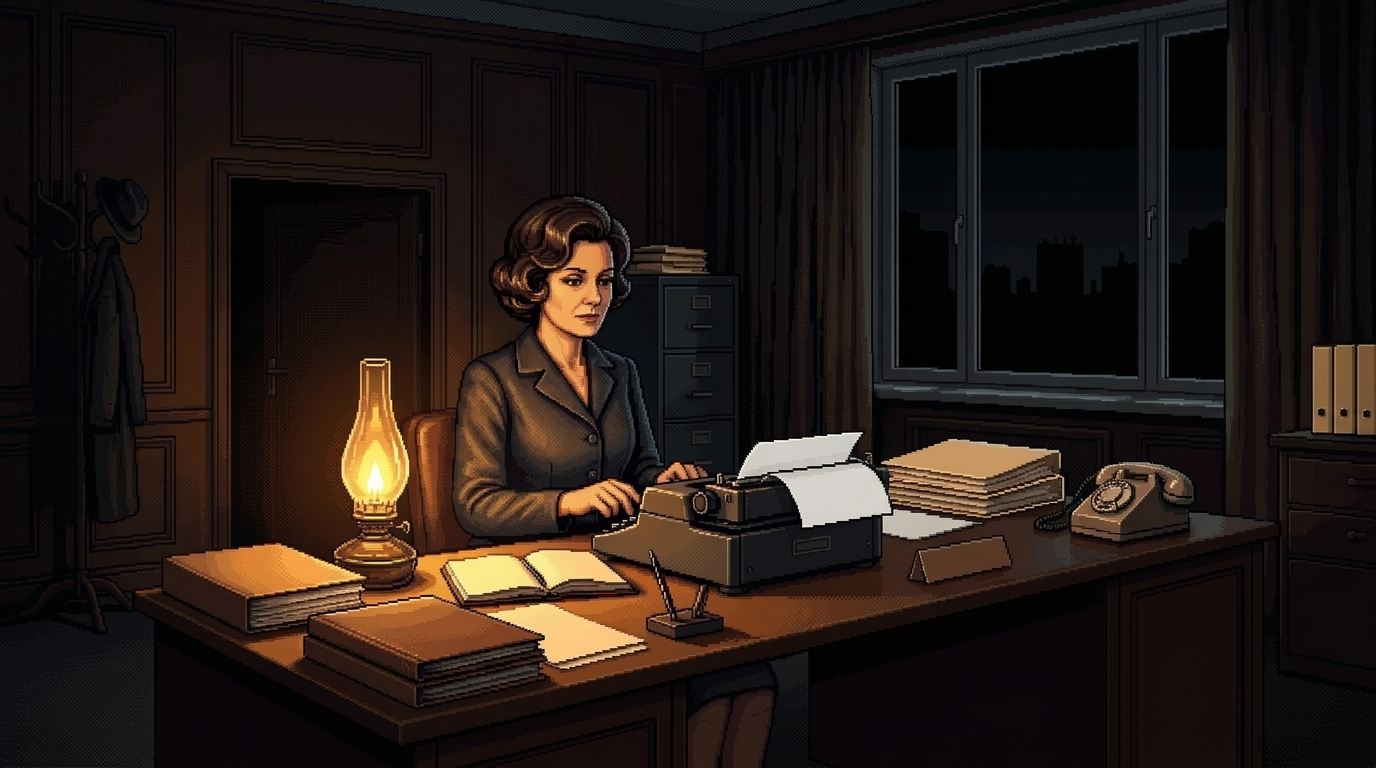
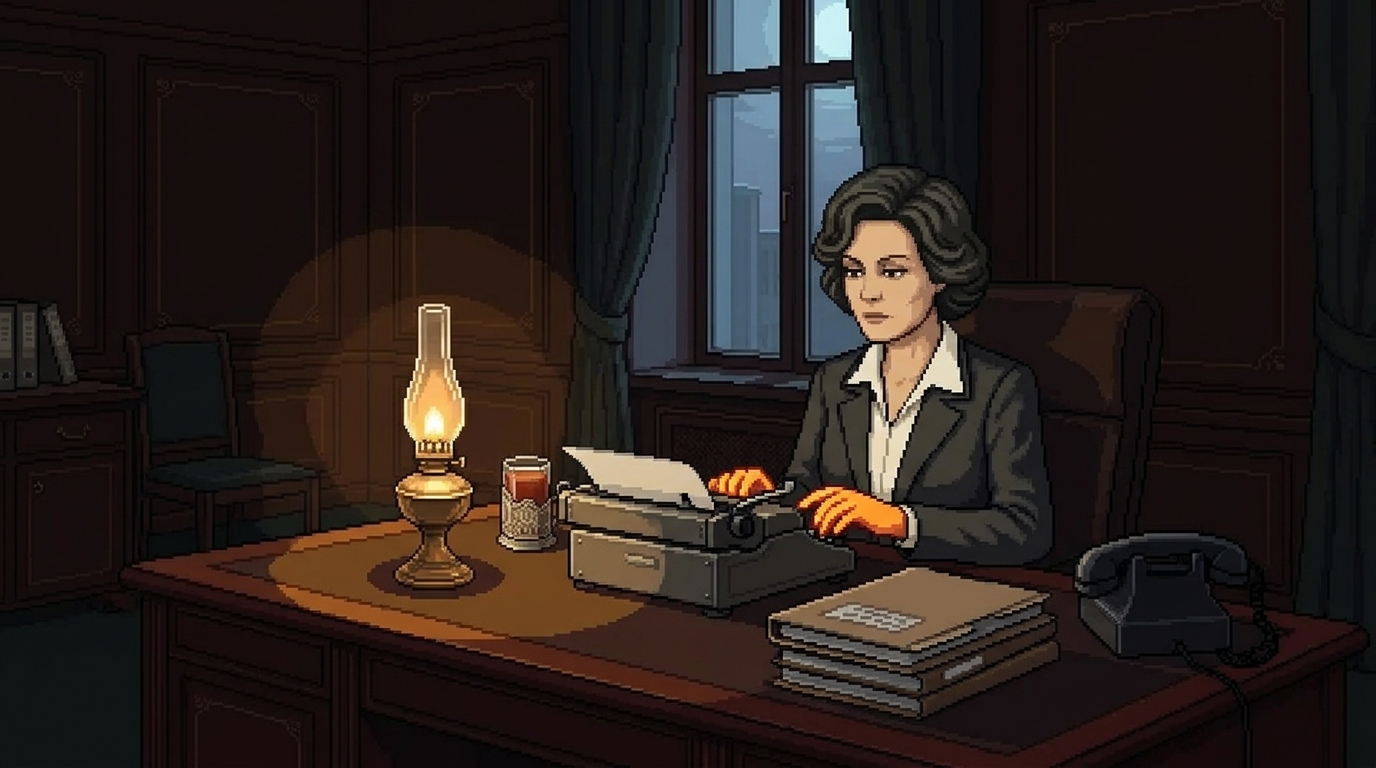
feat(art): единый образ секретаря в 16-битном пиксель-арте и подключение сцен (#245) (#266)
* feat(art): пакет ассетов секретаря президента — портрет и 4 межходовые сцены (part of #245)

- Канонический портрет женщины 45–50 лет в строгой 5-тоновой монохромной сепии (160×214, 4.1 КБ)
- 4 широкоформатные 16:9 пиксель-арт сцены для SCENES в secretary.ts:
  - electionEve: Ночь перед выборами (термос на краю стола, свет из приёмной, 26.1 КБ)
  - blackout: Отключение по графику (секретарь печатает при керосиновой лампе, 47.5 КБ)
  - coldWaitingRoom: Зима в приёмной (+12°C, перчатки у телефона, чай в подстаканнике, 63.2 КБ)
  - hospitalQueue: Приёмный покой областной больницы с матерью (52.3 КБ)
- Контактный лист docs/gemini-secretary-contact.jpg
- Манифест docs/gemini-secretary-manifest.md с контрольными суммами sha256 и правилами подключения
- Полное прохождение unit-тестов (454/454 pass) и чистая сборка Turbopack

* feat(art): единый образ секретаря в 16-битном пиксель-арте и подключение сцен (#245)

- Все 4 межходовые сцены перерисованы в аутентичном 16-битном ретро пиксель-арте Неманской республики 1978 со строгим соблюдением единого возраста (45–50 лет), формы лица, канонической пышной укладки 1970-х годов и одежды эталонного портрета (устранено замечание GPT/Codex по PR 253);
- Собраны новые оптимизированные WebP (все в диапазоне 30–50 КБ, бюджет < 100 КБ);
- Обновлены контактный лист docs/gemini-secretary-contact.jpg и манифест docs/gemini-secretary-manifest.md;
[…]

diff --git a/web/lib/client/historical-art.test.ts b/web/lib/client/historical-art.test.ts
@@ -3,7 +3,7 @@ import assert from 'node:assert/strict';
 import { existsSync, statSync } from 'node:fs';
 import { HISTORICAL_SCENE_ART, HISTORICAL_FIGURE_ART, historicalEventArt, historicalResultArt,
   historicalPortraitArt, HISTORICAL_OUTCOME_ART, HISTORICAL_ADDITIONAL_FIGURE_ART, HISTORICAL_ADVISOR_ART,
-  HISTORICAL_LEADER_ART, LEADER_PORTRAIT_IDS, historicalEndingArt } from './historical-art.ts';
+  HISTORICAL_LEADER_ART, LEADER_PORTRAIT_IDS, historicalEndingArt, HISTORICAL_SECRETARY_ART } from './historical-art.ts';
 import { MANAGEMENT_DOSSIERS } from '../content/management.ts';
 import { ALTERNATE_EVENTS } from '../content/alternate-history.ts';
 import { sceneOf } from '../content/scene-map.ts';
@@ -21,20 +21,21 @@ async function fresh() {
 
 test('all mapped WebP files exist within the image budgets', () => {
   const paths = [HISTORICAL_SCENE_ART, HISTORICAL_FIGURE_ART, HISTORICAL_OUTCOME_ART,
-    HISTORICAL_ADDITIONAL_FIGURE_ART, HISTORICAL_ADVISOR_ART, HISTORICAL_LEADER_ART].flatMap(group => Object.values(group).map(art => art.src));
-  assert.equal(paths.length, 54);
-  assert.equal(new Set(paths).size, 53); // wages and wagesGate share wages-gate.webp
+    HISTORICAL_ADDITIONAL_FIGURE_ART, HISTORICAL_ADVISOR_ART, HISTORICAL_LEADER_ART,
+    HISTORICAL_SECRETARY_ART].flatMap(group => Object.values(group).map(art => art.src));
+  assert.equal(paths.length, 59);
+  assert.equal(new Set(paths).size, 58); // wages and wagesGate share wages-gate.webp
   let bytes = 0;
   for (const src of paths) {
     const file = new URL(`../../public${src}`, import.meta.url);
     assert.ok(existsSync(file), src);
     bytes += statSync(file).size;
     if (src.includes('/gemini-next/')) {
-      const isPortrait = src.includes('male.webp') || src.includes('adv-') || src.includes('leader-');
+      const isPortrait = src.includes('male.webp') || src.includes('adv-') || src.includes('leader-') || src.includes('secretary-portrait');
       assert.ok(statSync(file).size <= (isPortrait ? 10_000 : 100_000), src);
     }
   }
-  assert.ok(bytes < 2_000_000);
+  assert.ok(bytes < 2_100_000);
 });
 
 test('hospital photos distinguish failed repair, ongoing works and a finished roof after reload', async () => {
@@ -248,5 +249,16 @@ test('leader persona customization resolves portraits from bio, updates starting
   const verdict = await classicApi.ending(endedFemale);
   assert.match(verdict.verdict, /правила страной/);
   assert.match(verdict.verdict, /приняла/);
+});
+
+test('secretary portrait resolves by current secretary name in Neman 1978 and stays null for other countries', async () => {
+  const base = await fresh();
+  const name = 'Елена Верес';
+  const stateWithSecretary = { ...base, world: { ...base.world, secretary: { name } } } as unknown as GameState;
+  assert.equal(historicalPortraitArt(stateWithSecretary, name), HISTORICAL_SECRETARY_ART.portrait.src);
+  assert.equal(historicalPortraitArt(stateWithSecretary, 'Другое Имя'), null);
+  for (const country of LEGACY_COUNTRIES) {
+    assert.equal(historicalPortraitArt({ ...stateWithSecretary, country }, name), null);
+  }
 });
 

diff --git a/web/lib/client/historical-art.ts b/web/lib/client/historical-art.ts
@@ -193,6 +193,14 @@ export const HISTORICAL_LEADER_ART: Record<string, { src: string; female: boolea
   diplomat: { src: '/art/gemini-next/leader-diplomat.webp', female: false, label: 'МИД · Дипломат' },
 };
 
+export const HISTORICAL_SECRETARY_ART = {
+  portrait: { src: '/art/gemini-next/secretary-portrait.webp', caption: 'Секретарь аппарата президента' },
+  electionEve: { src: '/art/gemini-next/secretary-scene-election-eve.webp', caption: 'Ночь перед выборами: термос на краю стола, свет только из приёмной' },
+  blackout: { src: '/art/gemini-next/secretary-scene-blackout.webp', caption: 'Отключение по графику: секретарь печатает при керосиновой лампе' },
+  coldWaitingRoom: { src: '/art/gemini-next/secretary-scene-cold-waiting-room.webp', caption: 'Зима: секретарь в пальто за столом в холодной приёмной' },
+  hospitalQueue: { src: '/art/gemini-next/secretary-scene-hospital-queue.webp', caption: 'Приёмный покой областной больницы: очередь в коридоре, секретарь с пожилой женщиной' },
+} as const;
+
 export function historicalPortraitArt(
   state: GameState | null, name: string, roster?: Record<string, string> | null,
 ): string | null {
@@ -200,6 +208,9 @@ export function historicalPortraitArt(
   if (state.leader.name === name) {
     const p = state.leader.portrait && HISTORICAL_LEADER_ART[state.leader.portrait];
     return p && p.female === isFemaleName(name) ? p.src : null;
+  }
+  if (state.world?.secretary?.name === name) {
+    return HISTORICAL_SECRETARY_ART.portrait.src;
   }
   const figure = state.keyFigures.find(person => person.name === name);
   if (figure) {

diff --git a/web/app/game/SecretaryLetter.jsx b/web/app/game/SecretaryLetter.jsx
@@ -2,6 +2,7 @@
 import { useState } from 'react';
 import { FAVORS, TRUST_WORDS } from '@/lib/content/secretary.ts';
 import { pendingSecretaryFavor, secretaryActions, secretaryAvailable, secretaryText } from '@/lib/game/secretary.ts';
+import { HISTORICAL_SECRETARY_ART } from '@/lib/client/historical-art.ts';
 import { PeopleText } from './PeopleText.jsx';
 
 const RESOURCE = { politicalCapital: 'политкапитал', personalResource: 'личный ресурс', internalLegitimacy: 'легитимность' };
@@ -48,7 +49,8 @@ export function SecretaryNote({ gs, onAction, Scene }) {
     </div>}
     {s.receiptTurn === gs.turn && s.receipt && <p role="status" data-secretary-receipt><PeopleText>{s.receipt}</PeopleText></p>}
     {available && s.scene?.turn === gs.turn && <figure className="sv-secretary-scene" data-secretary-scene={s.scene.id}>
-      <Scene gs={gs} sceneKey={s.scene.id === 'hospitalQueue' ? 'hospital' : 'office'} partner={s.name} height={65} still/>
+      <Scene gs={gs} sceneKey={s.scene.id === 'hospitalQueue' ? 'hospital' : 'office'} partner={s.name} height={65} still
+        art={HISTORICAL_SECRETARY_ART[s.scene.id]}/>
       <figcaption><PeopleText>{s.scene.text}</PeopleText></figcaption>
     </figure>}
   </>;

diff --git a/docs/gemini-secretary-manifest.md b/docs/gemini-secretary-manifest.md
@@ -1,8 +1,8 @@
 # Манифест арт-пакета: «Секретарь президента» (#245)
 
-22 октября 2026 · **Gemini (Gemini 3.8 Flash / Medium)** (сгенерировано в Antigravity, конвертация через Sharp в Node.js, `Q=84`, без сторонних сервисов).
+23 октября 2026 · **Gemini (Gemini 3.8 Flash / Medium)** (сгенерировано в Antigravity, конвертация через Sharp в Node.js, `Q=80`, без сторонних сервисов).
 
-Контактный лист (портрет + сетка сцен `2×2`): [`docs/gemini-secretary-contact.jpg`](docs/gemini-secretary-contact.jpg) (`112 307` Б).
+Контактный лист (портрет слева + сетка 4 сцен `2×2` справа): [`docs/gemini-secretary-contact.jpg`](docs/gemini-secretary-contact.jpg) (`99 753` Б).
 
 ---
 
@@ -10,37 +10,27 @@
 
 | Элемент / Слаг | Исходник (`art-source/gemini-next/`) | Игровой WebP (`web/public/art/gemini-next/`) | Вес WebP | Описание и подпись в игре |
 | --- | --- | --- | --- | --- |
-| **Портрет секретаря (`secretary-portrait`)** | `secretary-portrait.jpg`<br>`896×1200` · `400 773` Б<br>`sha256: c26968531fab4b83092a633e36fd7ddcc91392875bf74736d52d06db88a5ae2e` | `secretary-portrait.webp`<br>`160×214` · `4 116` Б<br>`sha256: 24bfb8d8fe759fc98f1af19091170664abda59f06302063a420f3bd4d3f91ef2` | 4.1 КБ | Канонический портрет женщины 45–50 лет в строгой 5-тоновой монохромной сепии (#2a241d, #544a3c, #857a62, #b8ac8e, #e2dac0), причёска 1970-х, тёмный шерстяной жакет, сдержанный и внимательный взгляд. |
-| **Сцена `electionEve` (`secretary-scene-election-eve`)** | `secretary-scene-election-eve.jpg`<br>`1376×768` · `533 656` Б<br>`sha256: 20a54564a358cad6d2a73ccd5d6df925ba8307e6534ad6ac0fd3b87fefc38492` | `secretary-scene-election-eve.webp`<br>`960×536` · `26 136` Б<br>`sha256: 7637e083da3a947dc19f0db4b8761f2cd68df6b7b5869a5237a07b2e2ebbd354` | 26.1 КБ | `Ночь перед выборами: термос на краю стола, свет только из приёмной`<br>Тёмный дубовый кабинет президента глубокой ночью, парящий термос и кружка на краю стола, полоса тёплого света из приоткрытой двери приёмной, ночные огни столицы за окном. |
-| **Сцена `blackout` (`secretary-scene-blackout`)** | `secretary-scene-blackout.jpg`<br>`1376×768` · `616 608` Б<br>`sha256: 08171b58a87e04b8f49316b9899e24c38d4b5f0a72bb5e7579e8a85651e83445` | `secretary-scene-blackout.webp`<br>`960×536` · `47 530` Б<br>`sha256: a3c95b1cdb941fe401c9149691f82b8dfa57f3f08eb43d068c6d63e5f691abe2` | 47.5 КБ | `Отключение по графику: секретарь печатает при керосиновой лампе`<br>Полумрак вечернего отключения энергии, керосиновая лампа освещает механическую машинку и стопки папок; секретарь методично печатает квартальную опись. |
-| **Сцена `coldWaitingRoom` (`secretary-scene-cold-waiting-room`)** | `secretary-scene-cold-waiting-room.jpg`<br>`1376×768` · `731 835` Б<br>`sha256: 3e1c699536d1b51fe745ad8bbdd7ebb6470523503725d5b773bce5a5acab0a99` | `secretary-scene-cold-waiting-room.webp`<br>`960×536` · `63 152` Б<br>`sha256: fbc9fda7ad4f205c4fa34302db78056eb75656875add6722576a3c353f90ec81` | 63.2 КБ | `Зима: секретарь в пальто за столом в холодной приёмной`<br>Январское утро в приёмной (+12°C), морозные узоры на стекле, вид на заснеженную правительственную площадь. Секретарь в тёплом пальто и шарфе, вязаные перчатки рядом с дисковым телефоном, стакан чая в подстаканнике. |
-| **Сцена `hospitalQueue` (`secretary-scene-hospital-queue`)** | `secretary-scene-hospital-queue.jpg`<br>`1376×768` · `685 948` Б<br>`sha256: c4f6ab771e6a00872d48d9fc277cbe82579759f13358f3bba2e72e9dc684c958` | `secretary-scene-hospital-queue.webp`<br>`960×536` · `52 310` Б<br>`sha256: a246c0cebc5152374423c92ca313e114131c06d14295b456550fe9d64b622438` | 52.3 КБ | `Приёмный покой областной больницы: очередь в коридоре, секретарь с пожилой женщиной`<br>Утилитарный двухцветный больничный коридор 1978 года, матовые плафоны, очередь людей на деревянных скамьях; секретарь поддерживает под руку пожилую мать в платке. |
+| **Портрет секретаря (`secretary-portrait`)** | `secretary-portrait.jpg`<br>`896×1200` · `400 773` Б<br>`sha256: c26968531fab4b83092a633e36fd7ddcc91392875bf74736d52d06db88a5ae2e` | `secretary-portrait.webp`<br>`160×214` · `4 116` Б<br>`sha256: 24bfb8d8fe759fc98f1af19091170664abda59f06302063a420f3bd4d3f91ef2` | 4.1 КБ | Канонический портрет женщины 45–50 лет в строгой 5-тоновой монохромной сепии (#2a241d, #544a3c, #857a62, #b8ac8e, #e2dac0), пышная укладка 1970-х с мягкой волной, тёмный шерстяной жакет, сдержанный и внимательный взгляд. Служит эталоном персонажа для всех межходовых сцен. |
+| **Сцена `electionEve` (`secretary-scene-election-eve`)** | `secretary-scene-election-eve.jpg`<br>`1376×768` · `541 838` Б<br>`sha256: eb673c348143d524abcd932d0b81ce4b1daa42ebbf66a5db1c12614753bdc3f6` | `secretary-scene-election-eve.webp`<br>`960×536` · `32 692` Б<br>`sha256: 19c735761d2d7776d4dc58ded1b84618c1d90d1b24797cdc14189099aa48476d` | 32.7 КБ | `Ночь перед выборами: термос на краю стола, свет только из приёмной`<br>Тёмный дубовый кабинет президента глубокой ночью, парящий термос и стакан в подстаканнике на краю стола, полоса тёплого света из приоткрытой двери приёмной, ночные огни столицы и арочное окно со снегом. Чистый пиксель-арт без людей. |
+| **Сцена `blackout` (`secretary-scene-blackout`)** | `secretary-scene-blackout.jpg`<br>`1376×768` · `515 743` Б<br>`sha256: dfdde225d3e8c9418dc7a5c388df5d29df528bfe7a02147408527b5f867ff352` | `secretary-scene-blackout.webp`<br>`960×536` · `30 474` Б<br>`sha256: 9bf51c4707587561467cd5b24d52e425d0e508abae5afadf28d0bb8b29067f6a` | 30.5 КБ | `Отключение по графику: секретарь печатает при керосиновой лампе`<br>Полумрак вечернего отключения энергии, керосиновая лампа освещает механическую машинку и стопки папок; та же самая женщина-секретарь 45–50 лет (точный образ с портрета) методично печатает опись. |
+| **Сцена `coldWaitingRoom` (`secretary-scene-cold-waiting-room`)** | `secretary-scene-cold-waiting-room.jpg`<br>`1376×768` · `618 790` Б<br>`sha256: 11b5d5b89efb9f9bf26ff14e23b9889c6aa24247b2db405c77017c74f46eb95e` | `secretary-scene-cold-waiting-room.webp`<br>`960×536` · `49 412` Б<br>`sha256: 984584ce1bd7fb21f5d1b29cf8c267217677e8a6528a9b0d4701871040e17f5e` | 49.4 КБ | `Зима: секретарь в пальто за столом в холодной приёмной`<br>Январское утро в приёмной (+12°C), морозные узоры на стекле, вид на заснеженную правительственную площадь. Та же женщина-секретарь 45–50 лет в тёплом тёмном пальто и шарфе, вязаные перчатки рядом с дисковым телефоном, стакан чая в подстаканнике. |
+| **Сцена `hospitalQueue` (`secretary-scene-hospital-queue`)** | `secretary-scene-hospital-queue.jpg`<br>`1376×768` · `527 937` Б<br>`sha256: e3f3b6a85eb7f8fb10bdba96ddbea7d255316d64ca74f5bcef179f034fc2b2c6` | `secretary-scene-hospital-queue.webp`<br>`960×536` · `37 262` Б<br>`sha256: da0b1423f4b3367d465803339971fd14d5530004a221bcf1d5cde97266a92773` | 37.3 КБ | `Приёмный покой областной больницы: очередь в коридоре, секретарь с пожилой женщиной`<br>Утилитарный двухцветный больничный коридор 1978 года, матовые плафоны, очередь людей на деревянных скамьях; та же женщина-секретарь в пальто поддерживает под руку пожилую мать в платке. |
 
-Общий вес 5 игровых файлов WebP: **~193 КБ** (все файлы значительно меньше индивидуального лимита 100 КБ).
+Общий вес 5 игровых файлов WebP: **~154 КБ** (все файлы строго укладываются в лимит 100 КБ).
 
 ---
 
 ## 2. Точные правила подключения в игру
 
 ### А. Портрет секретаря (`secretary-portrait.webp`)
-- Подключается для персонажа секретаря президента в кампании Неманской республики 1978 года:
-  - в заголовке личных писем (`SecretaryLetter.jsx`);
-  - в строке описи папки квартала (`QuarterInbox.jsx`);
-  - в служебном удостоверении и списках аппарата резиденции при совпадении с `gs.world.secretary.name`.
+- В служебном удостоверении и личных письмах секретаря при совпадении с `gs.world.secretary.name`.
 
-### Б. Межходовые сцены (`secretarySceneArt`)
-Привязаны 1:1 к слотам `SecretaryScene` из [`web/lib/content/secretary.ts`](web/lib/content/secretary.ts#L84-L107):
+### Б. Межходовые сцены (`SECRETARY_SCENE_ART`)
+Привязаны 1:1 к слотам `SecretaryScene` из `web/lib/content/secretary.ts`:
 1. `electionEve`: `/art/gemini-next/secretary-scene-election-eve.webp`
 2. `blackout`: `/art/gemini-next/secretary-scene-blackout.webp`
 3. `coldWaitingRoom`: `/art/gemini-next/secretary-scene-cold-waiting-room.webp`
 4. `hospitalQueue`: `/art/gemini-next/secretary-scene-hospital-queue.webp`
 
-Отображение в [`SecretaryLetter.jsx`](web/app/game/SecretaryLetter.jsx#L50-L53):
-- Заменяет временные заглушки `office` / `hospital` в вызове `<Scene ... />` на полноразмерные аутентичные иллюстрации сцены секретаря.
-
----
-
-## 3. Стилистическая преемственность
-- Все сцены выполнены в едином ракурсе и перспективе кабинета и приёмной резиденции 1978 года.
-- Строго соблюдена историческая атмосфера: отсутствие современных цифровых градиентов, надписей на латинице, торговых марок или вымышленных гербов.
-- Текстура пикселей согласуется с `residence-morning.webp`, `parliament-hall.webp` и `election-night.webp`.
+Отображение в `SecretaryLetter.jsx`:
+- Передаётся в проп `art` компонента `<Scene>` для Неманской республики 1978 года.
